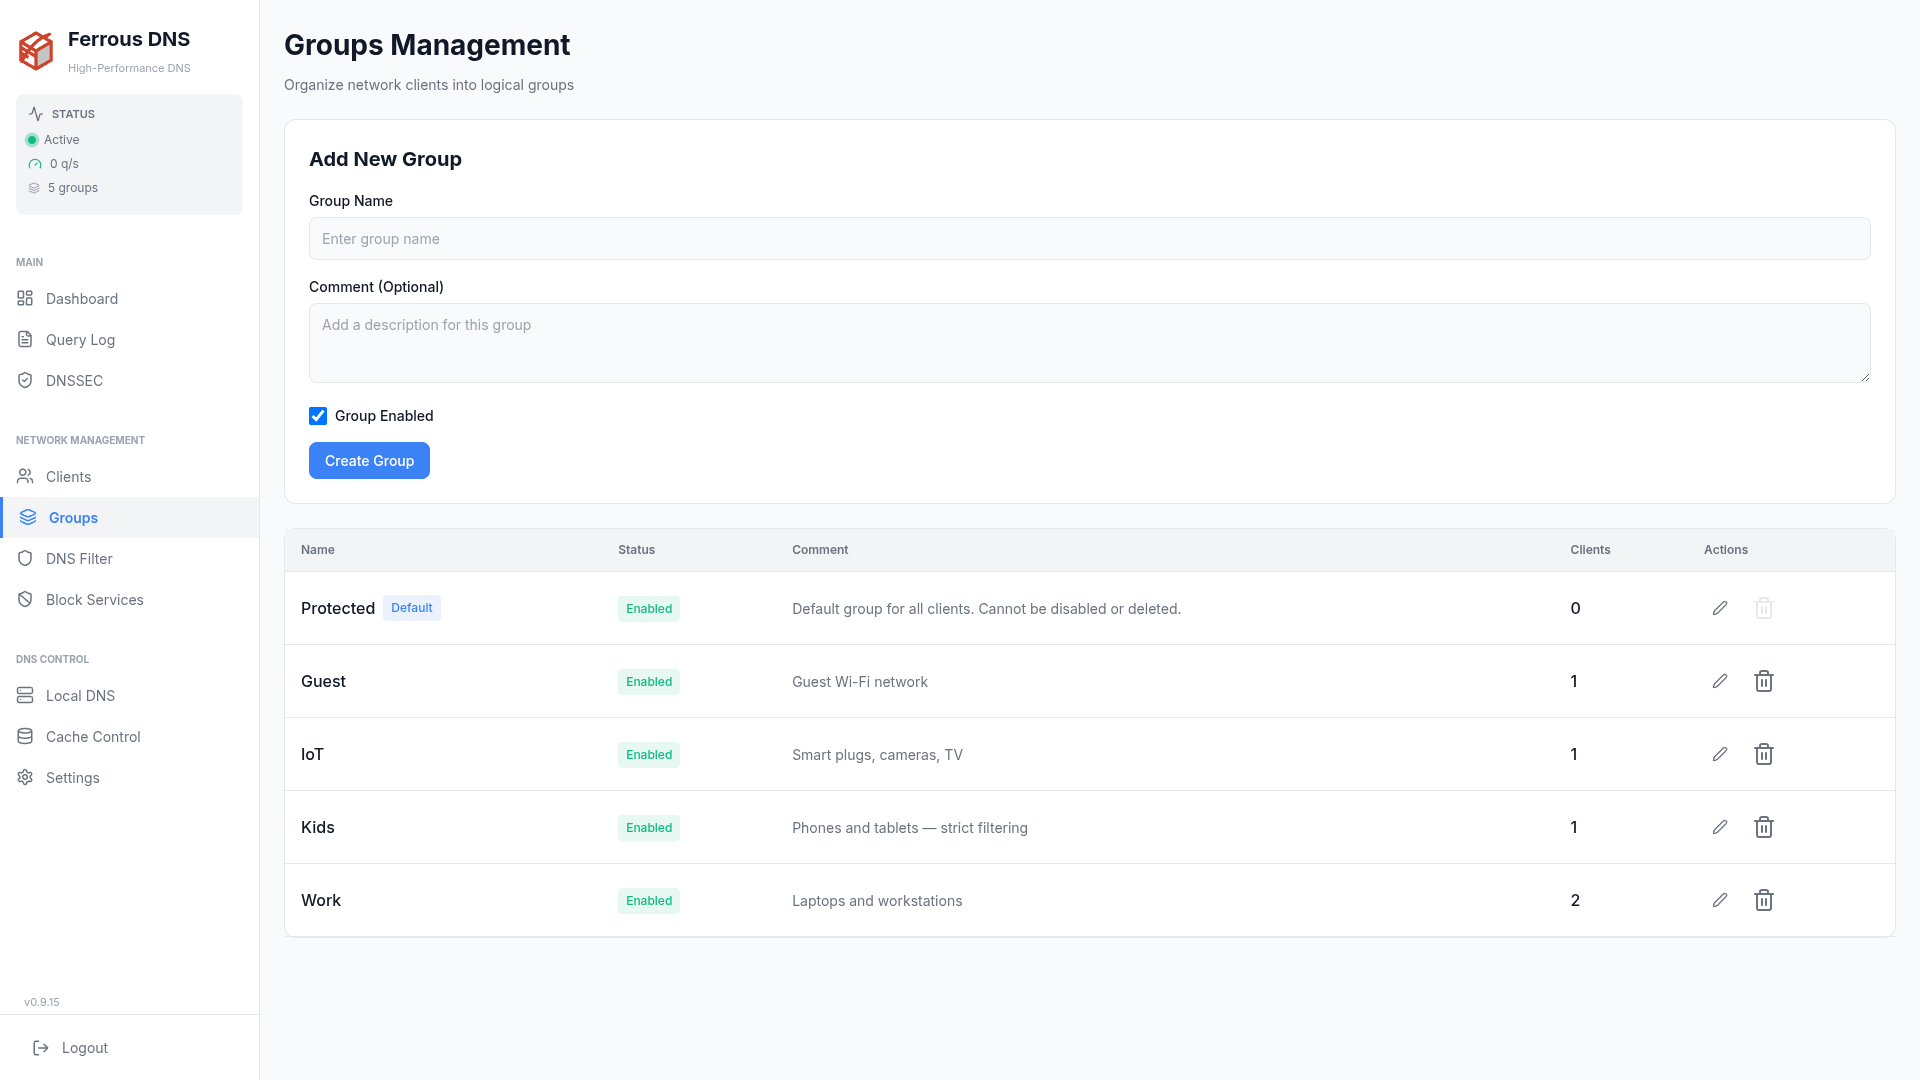
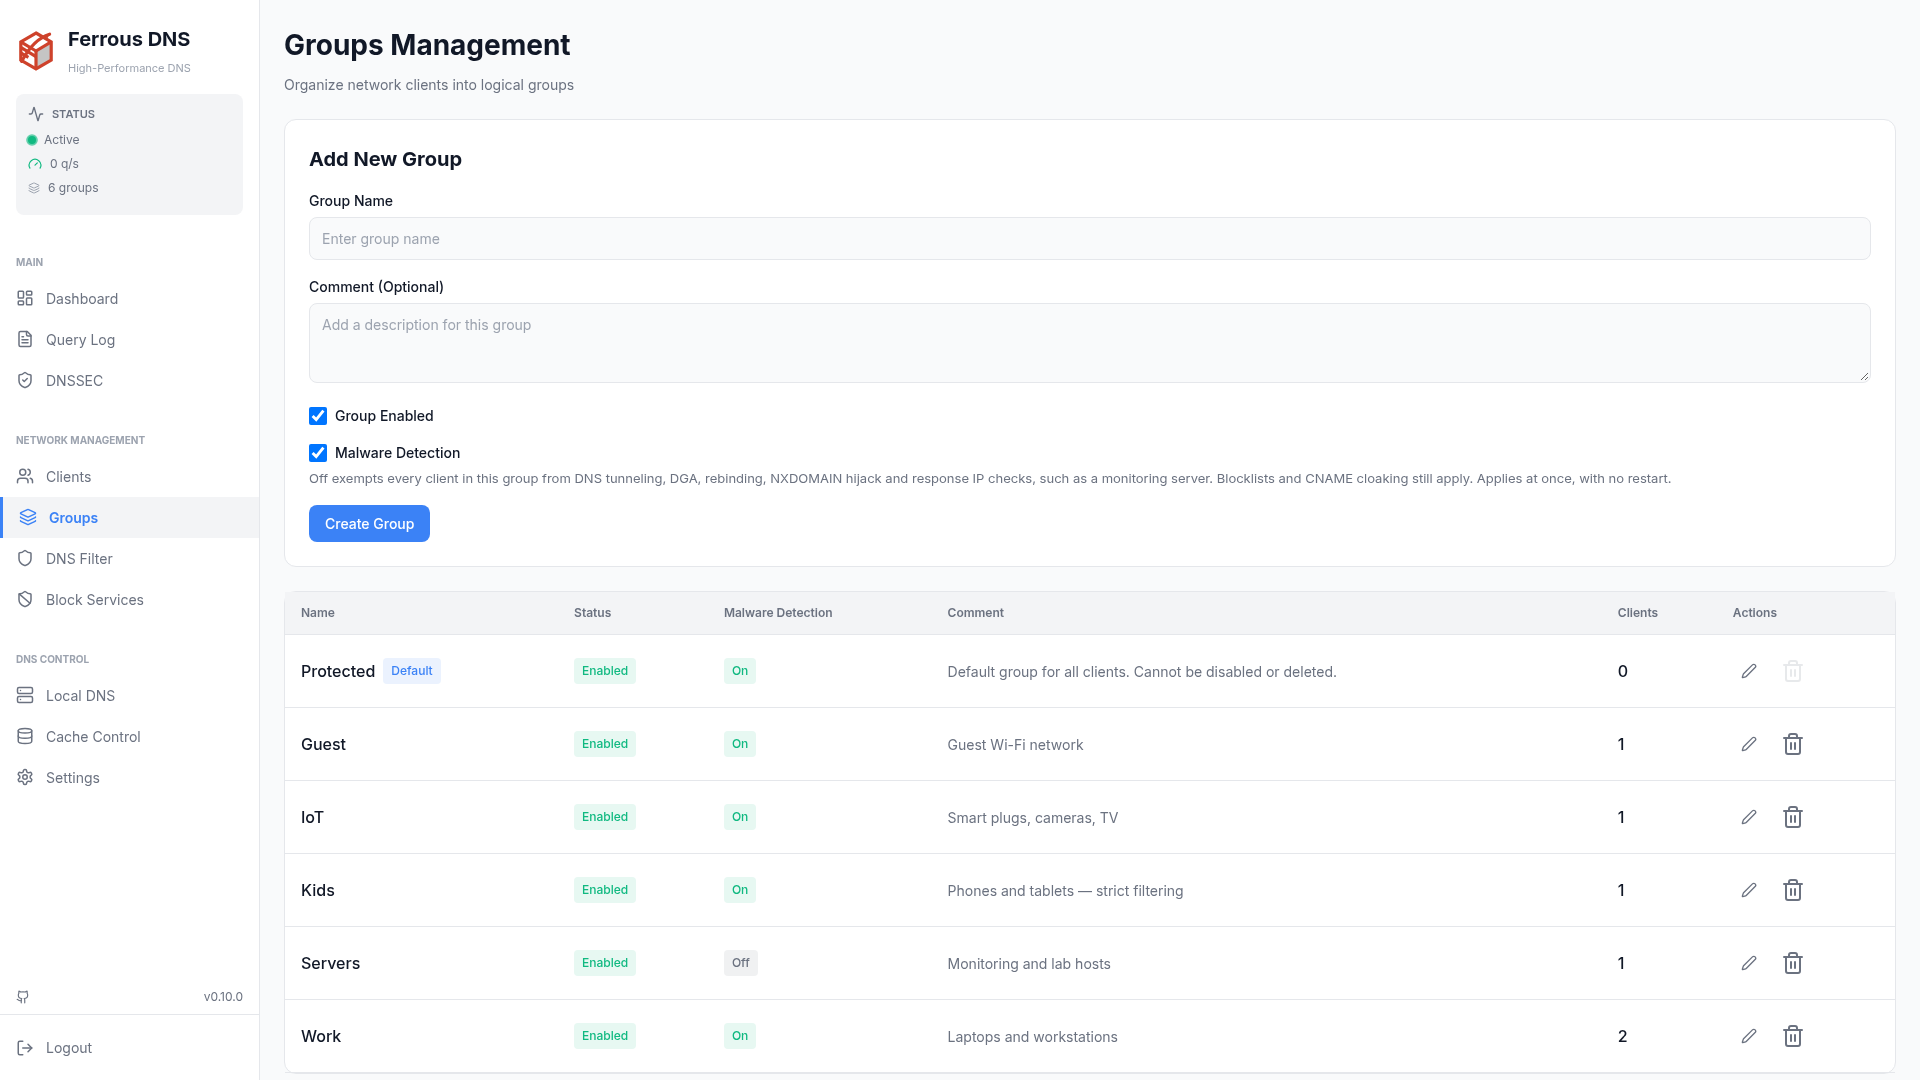
docs: recapture the Groups and Malware Detection screenshots
Both pages changed: Groups shows the per-group Malware Detection switch and
column, which hide while the Settings master switch is off, and the Malware
Detection tab points to DNS Filter and Groups for exemptions.

diff --git a/docs/features/malware-detection.md b/docs/features/malware-detection.md
@@ -18,7 +18,7 @@ No other self-hosted DNS server (Pi-hole, AdGuard Home, Blocky, Technitium, Core
 
 **Settings → Malware Detection** holds every option of the five engines, with an explanation next to each one. Saving there writes `ferrous-dns.toml`, the same keys documented in the sections below, and, like the other settings tabs, the change takes effect after a restart.
 
-![Settings → Malware Detection tab: the Enable Malware Detection switch on top, then the DNS Tunneling Detection card with its enable switch, action and first thresholds, each row with an explanation](../assets/dashboard/dashboard-settings-malware-detection.png)
+![Settings → Malware Detection tab: the Enable Malware Detection switch and an Exemptions row pointing to DNS Filter and Groups on top, then the DNS Tunneling Detection card with its enable switch, action and first thresholds, each row with an explanation](../assets/dashboard/dashboard-settings-malware-detection.png)
 
 **Enable Malware Detection** is the master switch (`[dns] malware_detection_enabled`). Turned off, none of the five engines runs. Each engine keeps its own setting for when you turn it back on, so response IP filtering, for example, stays off if it was off.
 
@@ -59,7 +59,7 @@ See [Blocking & Filtering](blocking-filtering.md#what-a-manual-rule-outranks) fo
 
 Some clients generate traffic that looks like an attack all day, such as a monitoring server that probes many names or a lab network. Put them in a group and switch **Malware Detection** off for that group in **Groups** (`malware_detection_enabled` in the [groups API](../api.md#groups)). The five engines then skip every query from the group's clients, and their queries stay out of the background analysis, so they cannot get a domain flagged for everyone else. The group's blocklists, allows and CNAME cloaking checks still apply.
 
-A single address or a whole subnet can be put in the group: see [Client Groups](client-management.md#client-groups). The master switch above still turns every engine off for every group.
+A single address or a whole subnet can be put in the group: see [Client Groups](client-management.md#client-groups). The master switch above still turns every engine off for every group. While it is off in **Settings**, the Groups page hides the per-group switch and its column, since they would change nothing.
 
 !!! note "Upgrading from the per-engine lists"
     Earlier releases read `domain_whitelist` and `client_whitelist` under `[dns.tunneling_detection]` and `[dns.dga_detection]`, and `rebinding_allowlist` under `[dns]`. They are no longer read. A file that still has them loads, logs a warning naming each list and its entries, and loses them on the next save from the dashboard. Move each domain to an allow and each client to an exempt group: see [Upgrading](../getting-started/installation.md#upgrading).

diff --git a/docs/features/client-management.md b/docs/features/client-management.md
@@ -49,7 +49,7 @@ Each group can have its own:
 |:-------|:------------|
 | **Blocklists** | Which blocklists apply to this group |
 | **Allowlist** | Domains always allowed for this group; an allow also clears a [malware detection](malware-detection.md#allowlisted-domains) false positive |
-| **Malware Detection** | On by default. Off exempts every client in the group from the five [malware detectors](malware-detection.md#exempt-clients), such as a monitoring server; blocklists and CNAME cloaking still apply |
+| **Malware Detection** | On by default. Off exempts every client in the group from the five [malware detectors](malware-detection.md#exempt-clients), such as a monitoring server; blocklists and CNAME cloaking still apply. Hidden while the master switch in **Settings → Malware Detection** is off |
 | **Safe Search** | Force safe search on search engines |
 | **Scheduling** | Time-based blocking rules |
 | **Conditional forwarding** | Send chosen domains to this group's own upstream pool (split-horizon), cached apart from other groups — see [Conditional Forwarding](../configuration/dns.md#conditional-forwarding) |
@@ -114,7 +114,7 @@ The Clients section of the dashboard shows:
 
 Groups themselves are managed one level up, under **Groups**:
 
-![Groups page — the Protected default group plus Guest, IoT, Kids and Work, each with its client count](../assets/dashboard/dashboard-groups.png)
+![Groups page — the add-group form with Group Enabled and Malware Detection checkboxes, above the Protected default group plus Guest, IoT, Kids, Servers and Work, each with its client count; Servers has Malware Detection off](../assets/dashboard/dashboard-groups.png)
 
 ---
 

diff --git a/docs/features/dashboard.md b/docs/features/dashboard.md
@@ -82,9 +82,9 @@ Validation outcomes for the last 24 hours, summarised and then listed per query:
 - Create and manage client groups (Kids, Work, IoT, Guest)
 - Assign clients to groups
 - Each group can have independent blocking policies
-- Switch Malware Detection off for a group to exempt its clients from the malware detectors
+- Switch Malware Detection off for a group to exempt its clients from the malware detectors (hidden while the master switch in Settings is off)
 
-![Groups page — the Protected default group plus Guest, IoT, Kids and Work, each with its client count](../assets/dashboard/dashboard-groups.png)
+![Groups page — the add-group form with Group Enabled and Malware Detection checkboxes, above the Protected default group plus Guest, IoT, Kids, Servers and Work, each with its client count; Servers has Malware Detection off](../assets/dashboard/dashboard-groups.png)
 
 ### DNS Filter
 
